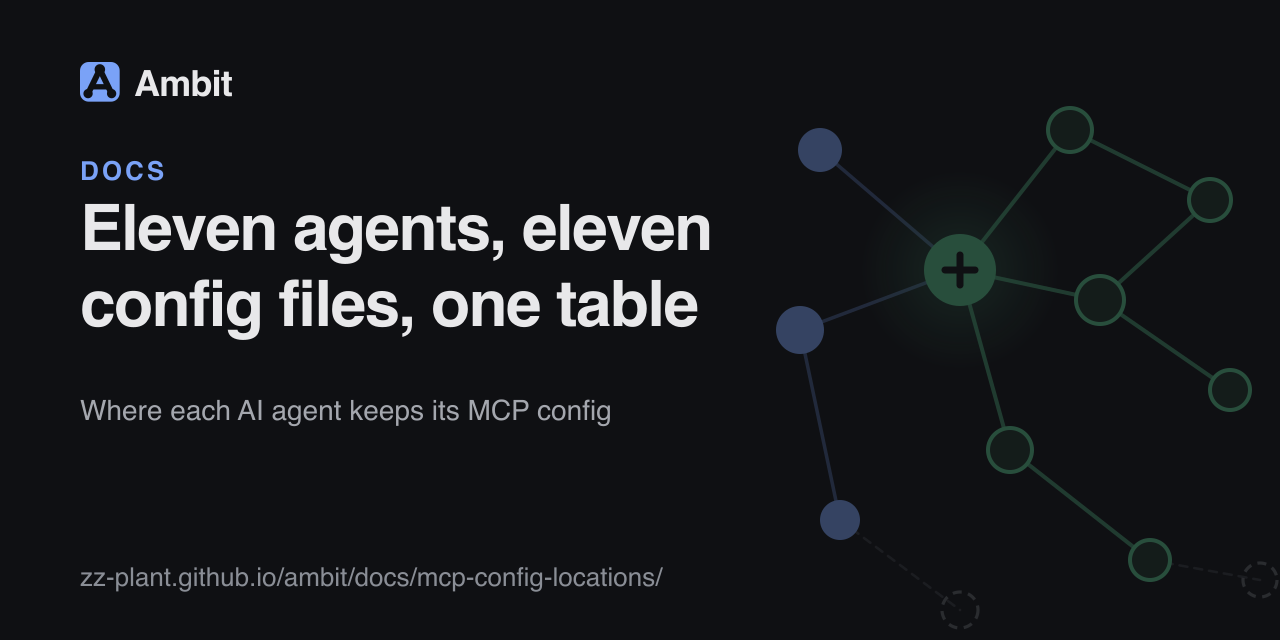
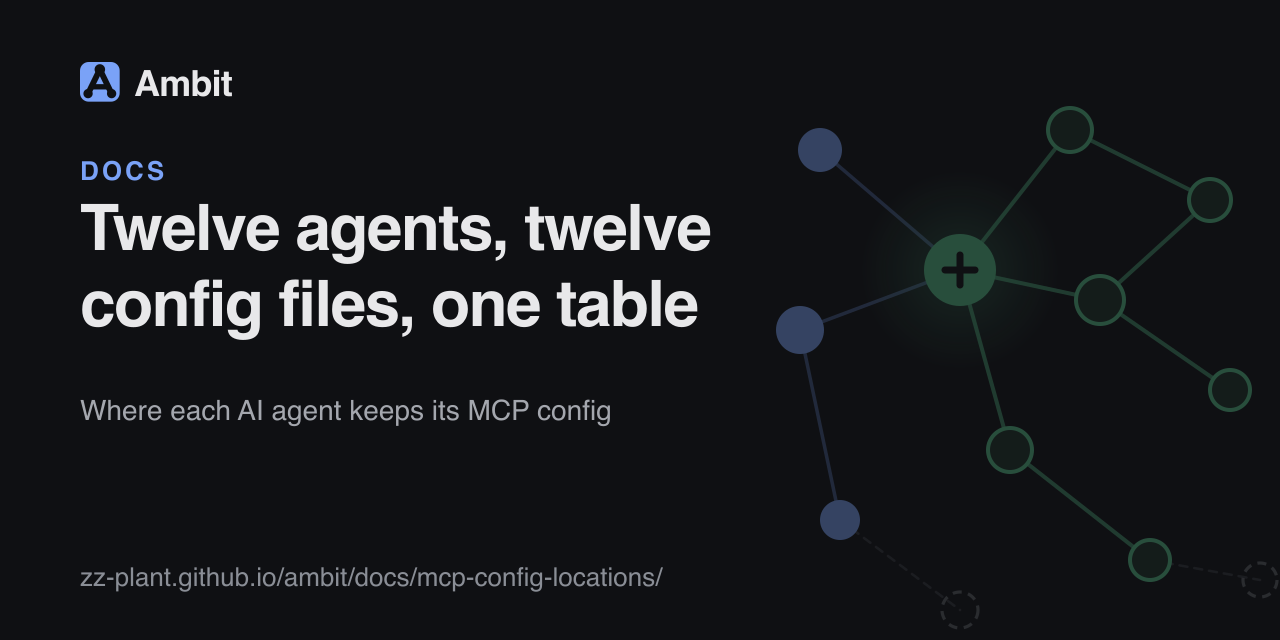
Name VS Code everywhere the runtimes are listed

Changed region(s): [[0.0625, 0.3125, 0.5625, 0.4062]]

diff --git a/src/client/index.html b/src/client/index.html
@@ -4,14 +4,14 @@
     <meta charset="UTF-8" />
     <meta name="viewport" content="width=device-width, initial-scale=1.0" />
     <title>Ambit: what your AI agents can do, and what to set up next</title>
-    <meta name="description" content="See what your AI agents can do and what one more step would open. Ambit maps Claude Code, Cursor, OpenCode and eight more agent configs into one local graph." />
+    <meta name="description" content="See what your AI agents can do and what one more step would open. Ambit maps Claude Code, Cursor, OpenCode and nine more agent configs into one local graph." />
     <link rel="canonical" href="https://zz-plant.github.io/ambit/" />
 
     <!-- Open Graph / Facebook -->
     <meta property="og:type" content="website" />
     <meta property="og:url" content="https://zz-plant.github.io/ambit/" />
     <meta property="og:title" content="Ambit: what could your agents do with one more step?" />
-    <meta property="og:description" content="Map Claude Code, Cursor, OpenCode and eight more into one graph of what your agents can do, what to set up next, and what breaks if a piece goes. Live demo, nothing to install." />
+    <meta property="og:description" content="Map Claude Code, Cursor, OpenCode and nine more into one graph of what your agents can do, what to set up next, and what breaks if a piece goes. Live demo, nothing to install." />
     <meta property="og:image" content="https://zz-plant.github.io/ambit/social-preview.png" />
     <meta property="og:image:width" content="1280" />
     <meta property="og:image:height" content="640" />
@@ -22,7 +22,7 @@
     <meta name="twitter:card" content="summary_large_image" />
     <meta name="twitter:creator" content="@zz_plant" />
     <meta name="twitter:title" content="Ambit: what could your agents do with one more step?" />
-    <meta name="twitter:description" content="Map Claude Code, Cursor, OpenCode and eight more into one graph of what your agents can do, what to set up next, and what breaks if a piece goes. Live demo, nothing to install." />
+    <meta name="twitter:description" content="Map Claude Code, Cursor, OpenCode and nine more into one graph of what your agents can do, what to set up next, and what breaks if a piece goes. Live demo, nothing to install." />
     <meta name="twitter:image:alt" content="What could your agents do with one more step? One node added, and the six capabilities it opens." />
     <meta name="twitter:image" content="https://zz-plant.github.io/ambit/social-preview.png" />
 
@@ -48,7 +48,7 @@
       },
       "description": "Ambit maps Claude Code, Cursor, OpenCode and other agent configs into one local capability graph: what you and your AI agents can do, what one more step would open, and what to set up next, with what breaks if a piece goes as the guardrail. Ask from the terminal or over MCP.",
       "featureList": [
-        "Reads MCP configs from Claude Code, Claude Desktop, Cursor, Windsurf, Gemini CLI, Codex CLI, OpenCode, Cline, Roo Code, Continue and Zed",
+        "Reads MCP configs from Claude Code, Claude Desktop, Cursor, Windsurf, Gemini CLI, Codex CLI, OpenCode, Cline, Roo Code, Continue, Zed and VS Code",
         "What to set up next, ranked by what it opens and the attention it saves",
         "Compound capabilities, including the ones one prerequisite away",
         "Blast radius: what stops and what only weakens if a server, model or credential goes away",
@@ -81,7 +81,7 @@
     <div id="root">
       <main class="static-intro" style="max-width: 720px; margin: 0 auto; padding: 32px 20px; font-family: -apple-system, BlinkMacSystemFont, 'Segoe UI', sans-serif; line-height: 1.6; background: #0f1013; color: #e8e8ea;">
         <h1>Ambit: see what you and your AI agents can do, and what one more step would open</h1>
-        <p>What you, your agents and your machines can jointly do is your <em>ambit</em>. It is spread across LLM providers, MCP servers, local CLI tools, skills, credentials and more than one machine. Ambit reads the configs of Claude Code, Cursor, OpenCode, Windsurf, Gemini CLI, Claude Desktop, Codex CLI, Cline, Roo Code, Continue and Zed, and draws that reach as one map, so you can see how to widen it.</p>
+        <p>What you, your agents and your machines can jointly do is your <em>ambit</em>. It is spread across LLM providers, MCP servers, local CLI tools, skills, credentials and more than one machine. Ambit reads the configs of Claude Code, Cursor, OpenCode, Windsurf, Gemini CLI, Claude Desktop, Codex CLI, Cline, Roo Code, Continue, Zed and VS Code, and draws that reach as one map, so you can see how to widen it.</p>
         <h2>What it answers</h2>
         <ul>
           <li>What is worth setting up next, ranked by what it would open and the attention it would save.</li>
@@ -95,7 +95,7 @@
           <li><a href="?demo=1" style="color: #7aa2f7;">Live demo</a>, the map on example data</li>
           <li><a href="docs/guide/" style="color: #7aa2f7;">Guide</a>: install, the CLI, and connecting it to Claude Code or OpenCode</li>
           <li><a href="docs/faq/" style="color: #7aa2f7;">FAQ</a>: what it reads, and what leaves your machine</li>
-          <li><a href="docs/mcp-config-locations/" style="color: #7aa2f7;">Where each AI agent keeps its MCP config</a>: Claude Code, Cursor, Codex CLI and eight more</li>
+          <li><a href="docs/mcp-config-locations/" style="color: #7aa2f7;">Where each AI agent keeps its MCP config</a>: Claude Code, Cursor, Codex CLI and nine more</li>
           <li><a href="docs/mcp-outage/" style="color: #7aa2f7;">What breaks if an MCP server goes down</a>: finding single points of failure</li>
           <li><a href="docs/audit-mcp-servers/" style="color: #7aa2f7;">Auditing an agent's MCP servers</a>: declared, working, permitted, and used</li>
           <li><a href="docs/deep-dive/" style="color: #7aa2f7;">Reference</a>: the model and every MCP tool</li>

diff --git a/scripts/build-docs.ts b/scripts/build-docs.ts
@@ -105,8 +105,8 @@ export const PAGES: Page[] = [
     slug: 'mcp-config-locations',
     title: 'Where each AI agent keeps its MCP config: Claude Code, Cursor, Codex and more',
     description:
-      'The MCP config file and key for Claude Code, Claude Desktop, Cursor, Windsurf, Gemini CLI, Codex CLI, OpenCode, Cline, Roo Code, Continue and Zed.',
-    card: 'Eleven agents, eleven config files, one table',
+      'The MCP config file and key for Claude Code, Claude Desktop, Cursor, Windsurf, Gemini CLI, Codex CLI, OpenCode, Cline, Roo Code, Continue, Zed and VS Code.',
+    card: 'Twelve agents, twelve config files, one table',
   },
   {
     src: 'docs/mcp-outage.md',

diff --git a/scripts/generate-scenes.ts b/scripts/generate-scenes.ts
@@ -276,7 +276,7 @@ function socialCard(): string {
 
     <text font-family="${FONT}" font-size="27" font-weight="500" fill="${SUB}">
       <tspan x="80" y="392">Ambit maps Claude Code, Cursor, OpenCode</tspan>
-      <tspan x="80" y="428">and eight more into one graph: what works,</tspan>
+      <tspan x="80" y="428">and nine more into one graph: what works,</tspan>
       <tspan x="80" y="464">what to set up next, what breaks if it goes.</tspan>
     </text>
 

diff --git a/README.md b/README.md
@@ -4,7 +4,7 @@
 
 **What you, your agents, and your machines can jointly do — and where your own time is going.**
 
-That is your *ambit*. Ambit reads the configs of Claude Code, Cursor, OpenCode and eight more agent runtimes into one local map of it, and shows how to widen it: what you can do now, what one more step would unlock, and which of what you have is configured but not actually working.
+That is your *ambit*. Ambit reads the configs of Claude Code, Cursor, OpenCode and nine more agent runtimes into one local map of it, and shows how to widen it: what you can do now, what one more step would unlock, and which of what you have is configured but not actually working.
 
 [![CI](https://img.shields.io/github/actions/workflow/status/zz-plant/ambit/ci.yml?branch=main&style=flat-square&label=tests)](https://github.com/zz-plant/ambit/actions/workflows/ci.yml)
 [![Release](https://img.shields.io/github/v/release/zz-plant/ambit?style=flat-square&color=7aa2f7)](https://github.com/zz-plant/ambit/releases/latest)
@@ -130,7 +130,7 @@ Semantic search finds tools that sound relevant and cannot tell a working one fr
 | **In a cloud IDE** | [![Open in GitHub Codespaces](https://github.com/codespaces/badge.svg)](https://codespaces.new/zz-plant/ambit?quickstart=1) A full checkout with the map running, in a browser tab, touching nothing on your machine. |
 | **From your agent** | Register Ambit over MCP and the agent can ask what it is able to do before it tries. [Connect it to your agent](#connect-it-to-your-agent) has the snippet. |
 
-npm and Homebrew install the tagged release, on macOS or Linux. `./bootstrap.sh` discovers OpenCode, Claude Code, Cursor, Windsurf, Gemini CLI, Claude Desktop, Codex CLI, Cline, Roo Code, Continue and Zed, and the skill directories `~/.agents/skills`, `~/.opencode/skills` and `~/.config/opencode/skills`, builds a local SQLite graph, links `ambit` into `~/.local/bin` (or prints the `ln -s` line when that is not on your PATH), and ends on `ambit status`. `--dry-run` shows what it would do first.
+npm and Homebrew install the tagged release, on macOS or Linux. `./bootstrap.sh` discovers OpenCode, Claude Code, Cursor, Windsurf, Gemini CLI, Claude Desktop, Codex CLI, Cline, Roo Code, Continue, Zed and VS Code, and the skill directories `~/.agents/skills`, `~/.opencode/skills` and `~/.config/opencode/skills`, builds a local SQLite graph, links `ambit` into `~/.local/bin` (or prints the `ln -s` line when that is not on your PATH), and ends on `ambit status`. `--dry-run` shows what it would do first.
 
 <div align="center">
 <img src="docs/assets/screenshot-config.png" alt="The My Setup view: MCP servers, agents, and models read from local config, one row each, with what the engine has proved about them and the capabilities each provides" width="900">

diff --git a/.github/launch-kit.md b/.github/launch-kit.md
@@ -34,7 +34,7 @@ The parts I use most:
 - Blast-radius and single-point-of-failure analysis for tools and credentials, the guardrail that makes widening safe to lean on.
 - An attention ledger for permission prompts and other human interventions.
 - Reviewable config proposals with signed approval receipts. Agents may propose changes over MCP, but approval and apply stay outside the MCP surface.
-- Automatic discovery for OpenCode, Claude Code, Cursor, Windsurf, Gemini CLI, Claude Desktop, Codex CLI, Cline, Roo Code, Continue, and Zed. A server two clients both list stays one capability with two providers.
+- Automatic discovery for OpenCode, Claude Code, Cursor, Windsurf, Gemini CLI, Claude Desktop, Codex CLI, Cline, Roo Code, Continue, Zed, and VS Code. A server two clients both list stays one capability with two providers.
 
 Zero-install demo: https://zz-plant.github.io/ambit/?demo=1
 
@@ -50,7 +50,7 @@ The repository page is where a visitor decides whether the project is worth reme
 
 **About → Description.** The sidebar is the one line a visitor reads before the README loads, and GitHub search indexes it. The tagline is the brand; this is the answer to "what is it", naming the tools a reader already uses:
 
-> See what you and your AI agents can do, and what one more step would unlock. Ambit maps Claude Code, Cursor, OpenCode and eight more agent configs into one local graph: what works, what to set up next, and what breaks if a piece goes.
+> See what you and your AI agents can do, and what one more step would unlock. Ambit maps Claude Code, Cursor, OpenCode and nine more agent configs into one local graph: what works, what to set up next, and what breaks if a piece goes.
 
 Applied 2026-09-30, with Website and Topics below. It was written first as "What breaks if one MCP server goes down?", which is the guardrail half; see Positioning.
 

diff --git a/docs/loadout.md b/docs/loadout.md
@@ -40,7 +40,7 @@ The person's role changes on the way. At A they operate and approve each call. A
 
 My Setup in the app opens on a readout of these seven legs for the loadout on screen, each with where it stands and the one command that moves it.
 
-**1. See where it stands.** Eleven runtimes keep their servers in eleven files ([where each one keeps it](./mcp-config-locations.md)), and none of them says whether a server works. `ambit seed` reads them all into one map, and `ambit verify` runs each declared check. The demo's loadout reaches 16 of the 45 capabilities on its map, and 13 of those are proven. *Easier: this was always possible by hand.*
+**1. See where it stands.** Twelve runtimes keep their servers in twelve files ([where each one keeps it](./mcp-config-locations.md)), and none of them says whether a server works. `ambit seed` reads them all into one map, and `ambit verify` runs each declared check. The demo's loadout reaches 16 of the 45 capabilities on its map, and 13 of those are proven. *Easier: this was always possible by hand.*
 
 **2. Pick the next step.** Adding servers from a list is a guess about what they combine into. `ambit next` ranks what to reach by what has actually blocked work, and `ambit graph combos` names the combinations one missing piece away. In the demo, Embeddings is next: it has blocked work four times, and it also reaches Vector Store. Ranked by how much each step opens, the welcome screen's pick is Model Routing, which would open six more. *Tractable: the choice is combinatorial, and without a model people stop at the size they can hold in their heads.*
 

diff --git a/docs/README.md b/docs/README.md
@@ -6,7 +6,7 @@
 
 - [Building alone](./solo.md) — for a one-person company: the checklist between you and launch, what an agent may do to production without asking, and how you hear when it breaks.
 - [FAQ](./faq.md) — the short answers, each pointing at the longer one.
-- [Where each AI agent keeps its MCP config](./mcp-config-locations.md) — the file and the key for Claude Code, Claude Desktop, Cursor, Windsurf, Gemini CLI, Codex CLI, OpenCode, Cline, Roo Code, Continue and Zed.
+- [Where each AI agent keeps its MCP config](./mcp-config-locations.md) — the file and the key for Claude Code, Claude Desktop, Cursor, Windsurf, Gemini CLI, Codex CLI, OpenCode, Cline, Roo Code, Continue, Zed and VS Code.
 - [What breaks if an MCP server goes down](./mcp-outage.md) — single points of failure in an agent setup, and how to find them before an agent does.
 - [Auditing which MCP servers a coding agent has](./audit-mcp-servers.md) — what is declared, what works, what may run without asking, and what was used but never declared.
 - [Ambit and MCP gateways](./compare.md) — which questions a gateway on the call path answers, which ones Ambit answers, and how the two compose.

diff --git a/CHANGELOG.md b/CHANGELOG.md
@@ -6,6 +6,10 @@ An entry that refers to the previous entry therefore points down the page, not u
 
 ## [Unreleased](https://github.com/zz-plant/ambit/compare/v0.6.0...main)
 
+### VS Code's own MCP servers
+
+VS Code keeps the servers it runs in a user-level `mcp.json`, under `servers`, apart from the Cline and Roo Code extensions Ambit already read, so those servers never reached the graph. They do now, as a twelfth runtime, with `VSCODE_MCP_CONFIG` to point elsewhere: contributed by @webdevsamran in #83, closing #77. Every place that lists the runtimes, the social card included, says twelve.
+
 ## [0.6.0](https://github.com/zz-plant/ambit/releases/tag/v0.6.0) — 2026-10-01
 
 The first release on npm and in the MCP registry, and the first that helps someone running a product, not only an agent setup. In short:

diff --git a/plugins/claude-code/ambit/skills/ambit/SKILL.md b/plugins/claude-code/ambit/skills/ambit/SKILL.md
@@ -5,7 +5,7 @@ description: Use when the user asks which MCP servers or agent tools they have, 
 
 # Ambit
 
-Ambit reads the agent configs on this machine (Claude Code, Cursor, OpenCode, Windsurf, Gemini CLI, Claude Desktop, Codex CLI, Cline, Roo Code, Continue, Zed) into one local graph: what the setup can do, what is proven to work, what may run without asking, and what to set up next.
+Ambit reads the agent configs on this machine (Claude Code, Cursor, OpenCode, Windsurf, Gemini CLI, Claude Desktop, Codex CLI, Cline, Roo Code, Continue, Zed, VS Code) into one local graph: what the setup can do, what is proven to work, what may run without asking, and what to set up next.
 
 ## Before you run anything, tell the user what it touches
 

diff --git a/AGENTS.md b/AGENTS.md
@@ -69,7 +69,7 @@ src/engine/techtree.json   The curated tree itself: authored content, the same f
                            and 9 (Product, Operations) are what running a product needs; Launch
                            Ready is a capstone (`detect.requires_met`), reached by its steps
 src/engine/mcp-clients.ts  Cursor, Windsurf, Gemini CLI, Claude Desktop, Codex CLI, Cline, Roo Code,
-                           Continue and Zed config readers: the nine besides OpenCode and Claude Code
+                           Continue, Zed and VS Code config readers: the ten besides OpenCode and Claude Code
 src/engine/claude-code.ts  Reads a Claude Code install into the shape seedFromConfig accepts
 ```
 
